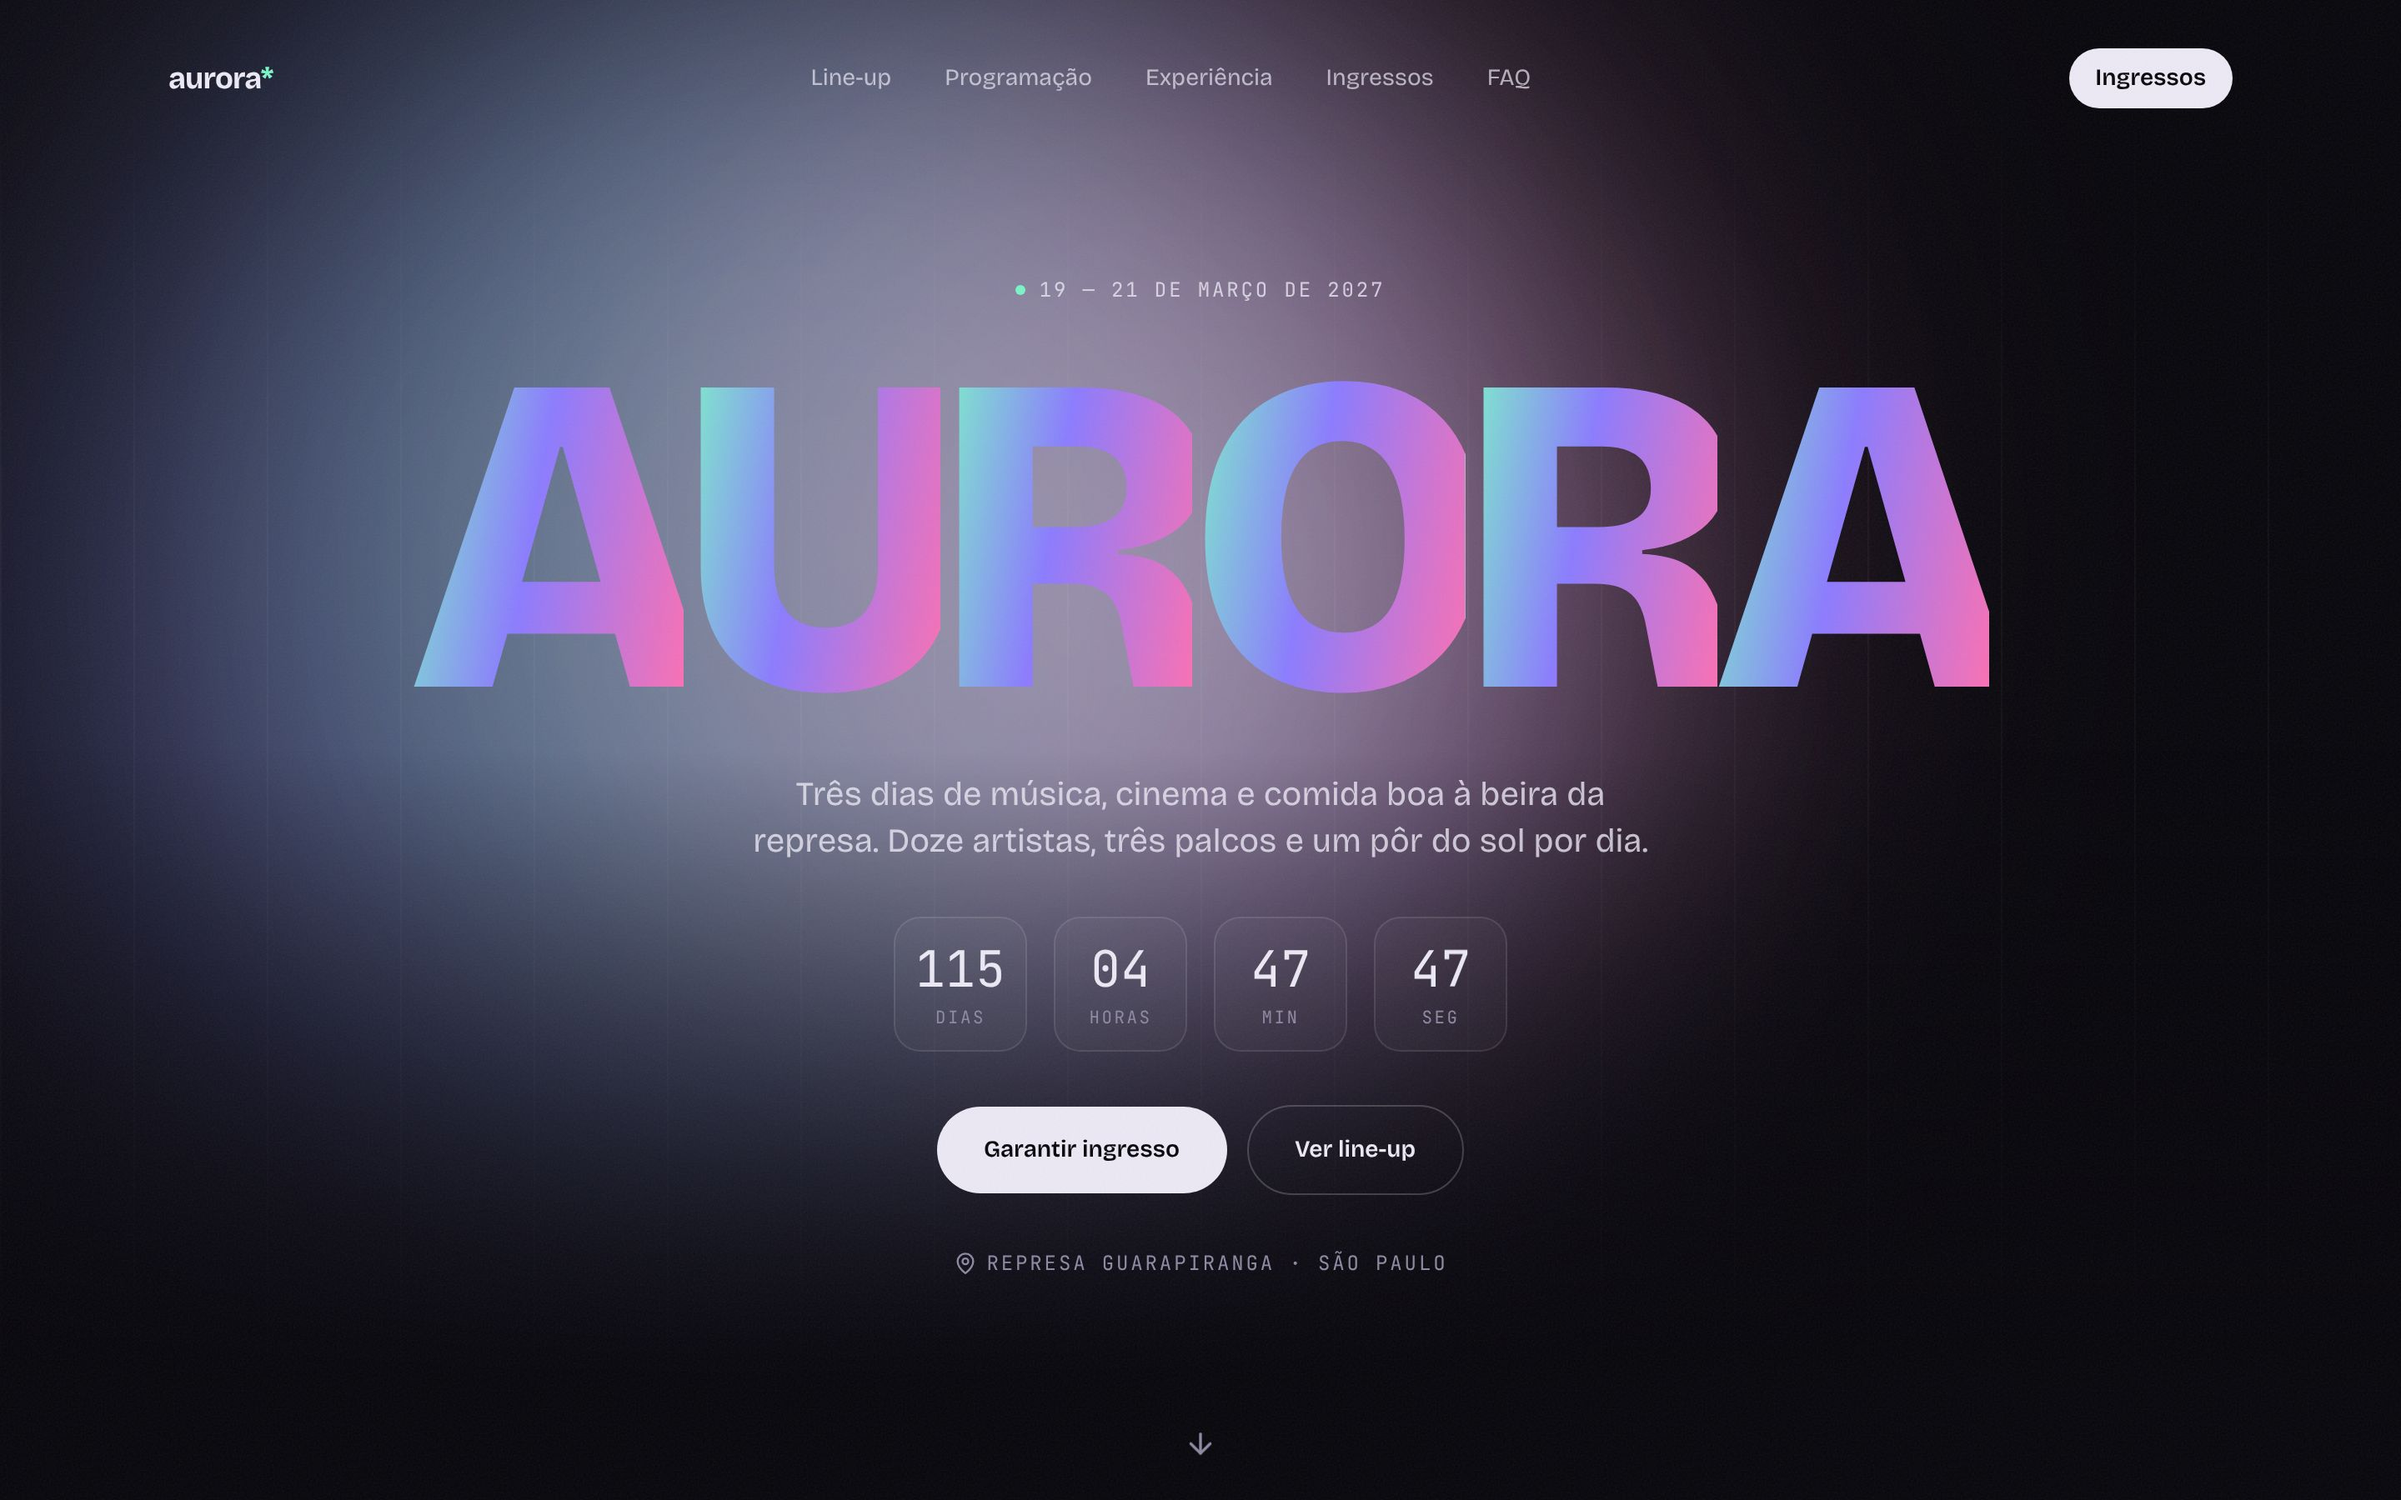
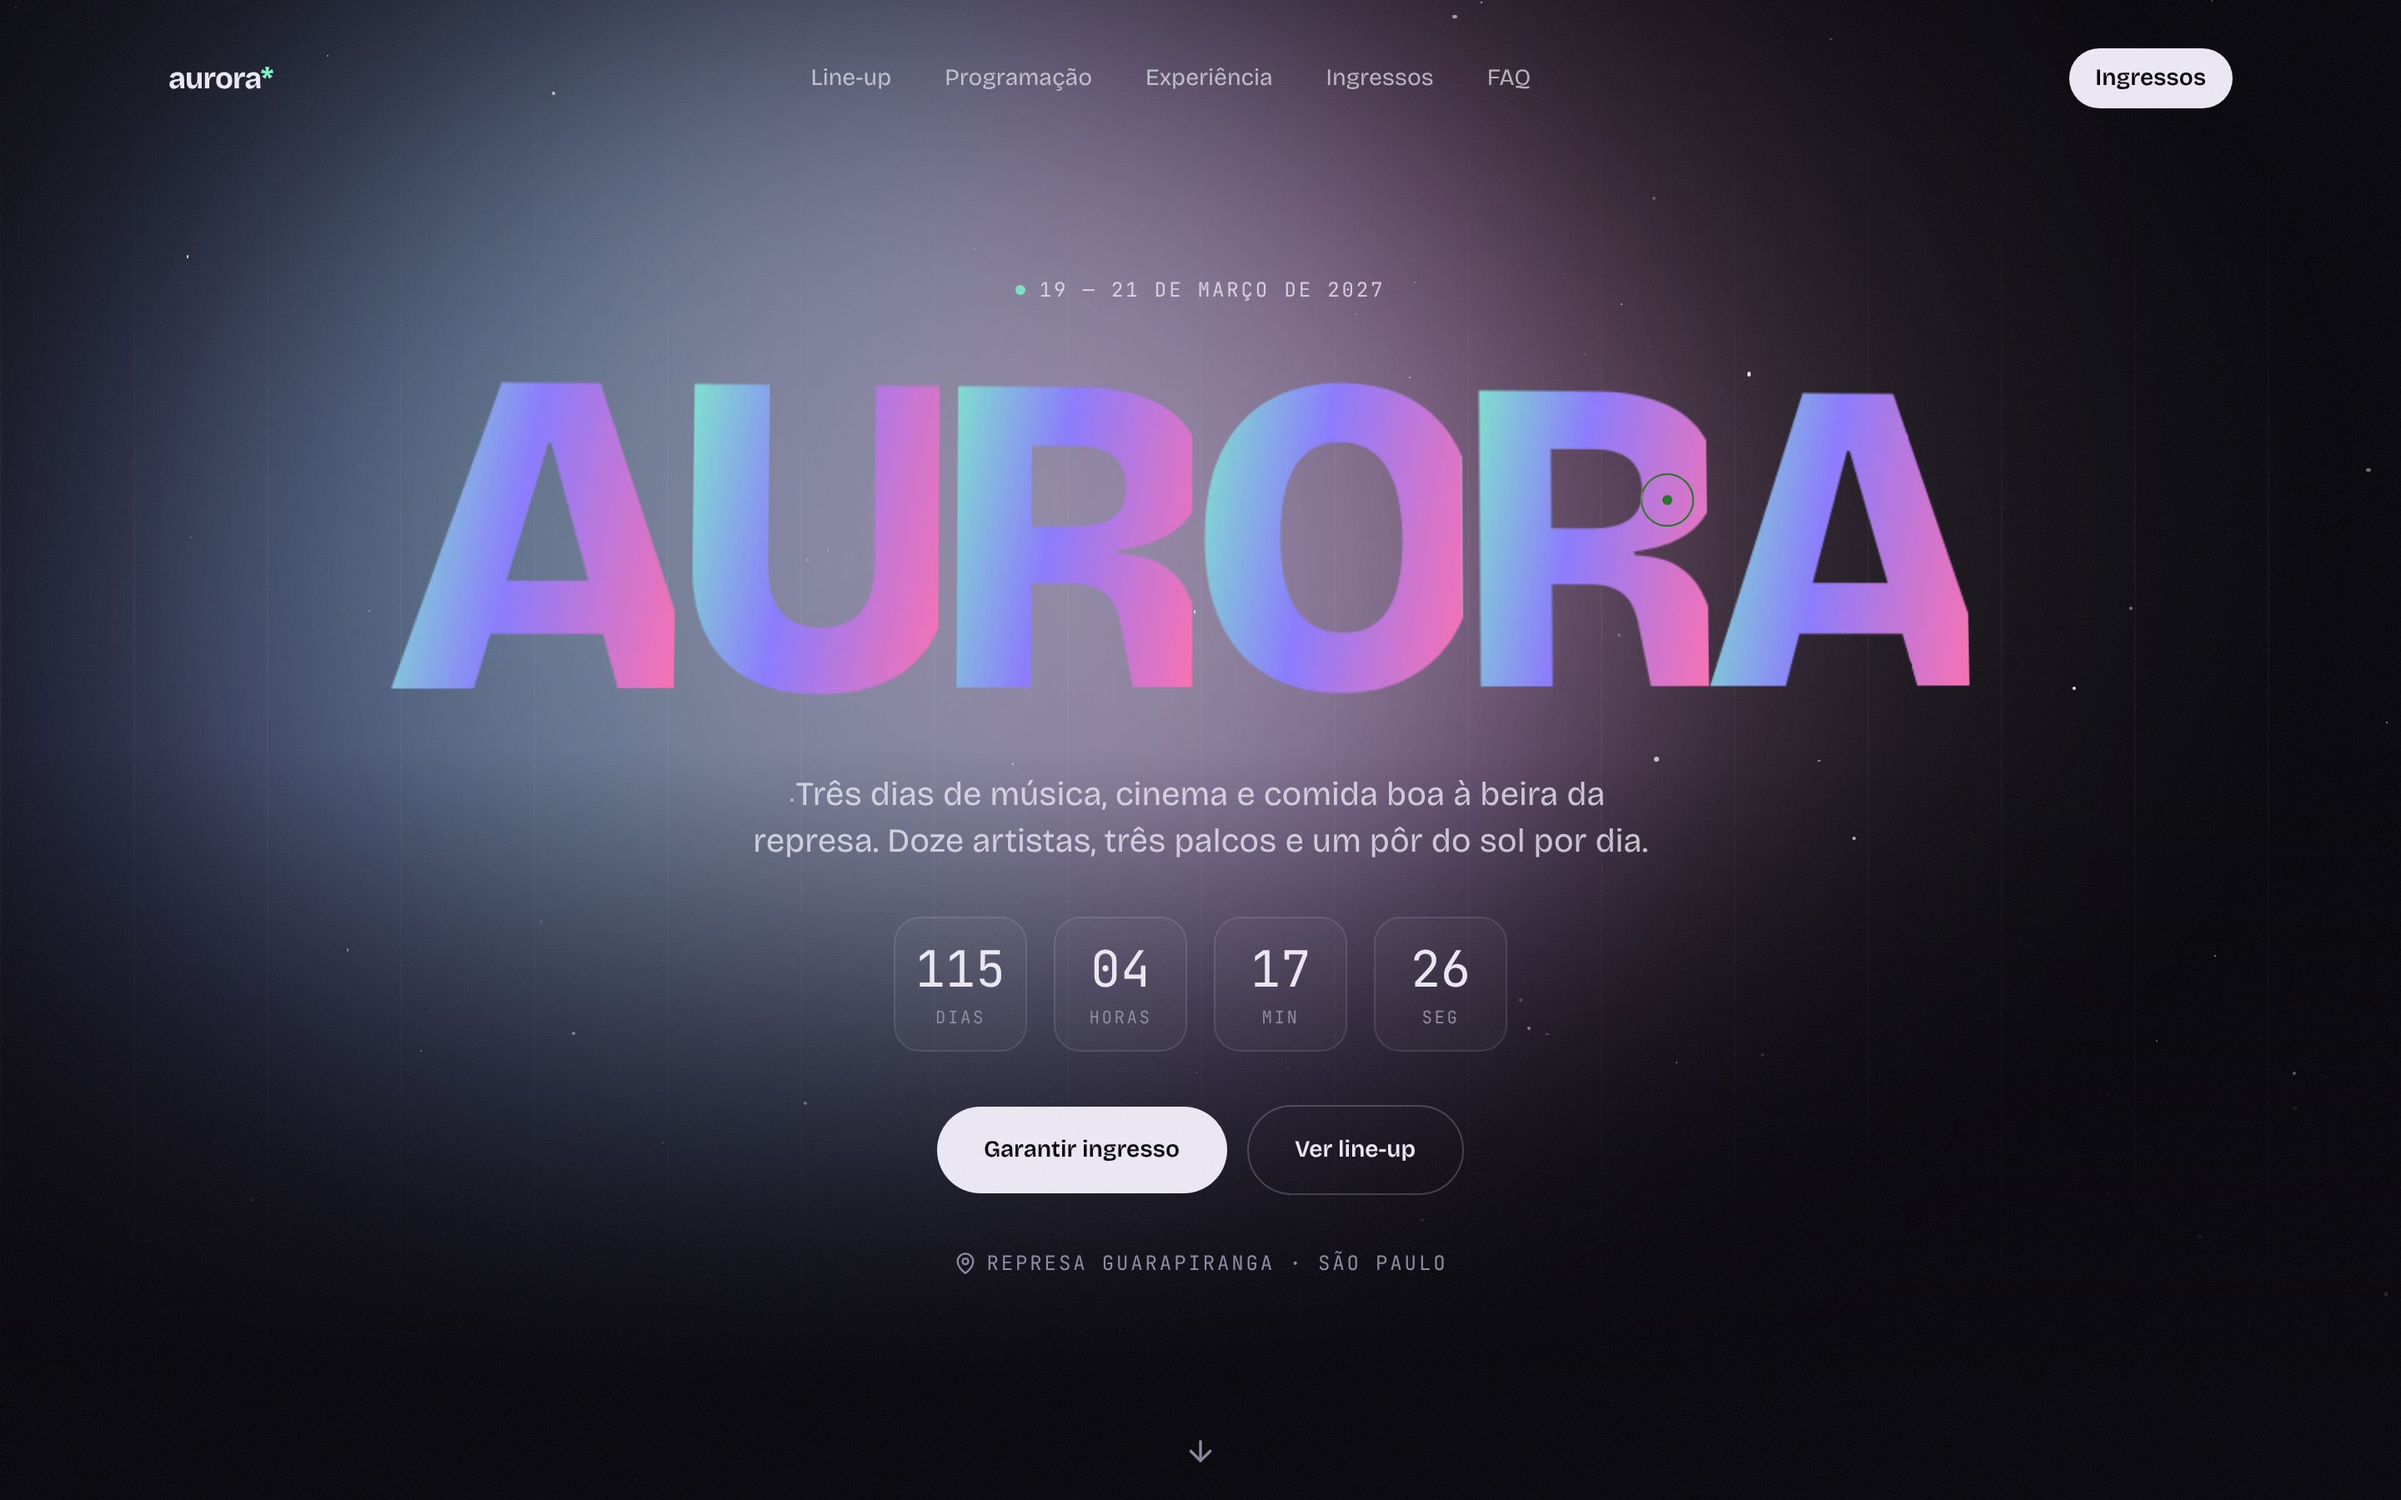
:books: docs: Atualiza README e screenshots

diff --git a/README.md b/README.md
@@ -4,8 +4,10 @@ Landing page de um festival de música **fictício**, feita pra praticar animaç
 
 ![Hero](docs/hero.jpg)
 
-| Line-up com preview no cursor | Ingressos com tilt 3D |
+| Preloader | Zoom parallax da edição passada |
 | :---: | :---: |
+| ![Preloader](docs/preloader.jpg) | ![Zoom parallax](docs/zoom.jpg) |
+| **Line-up com preview no cursor** | **Ingressos com tilt 3D** |
 | ![Line-up](docs/lineup.jpg) | ![Ingressos](docs/ingressos.jpg) |
 
 ## Stack
@@ -13,26 +15,37 @@ Landing page de um festival de música **fictício**, feita pra praticar animaç
 - React 19 + TypeScript + Vite
 - Tailwind CSS 4 (tokens no `@theme` do `index.css`)
 - [Motion](https://motion.dev) pras animações
+- [Lenis](https://lenis.darkroom.engineering) pro scroll suave
 - lucide-react pros ícones
 
 ## Animações
 
 | Seção | O que acontece | Onde |
 | :--- | :--- | :--- |
-| Hero | blobs de cor se movendo com blur + spotlight que segue o mouse | `AuroraBackground.tsx` |
-| Hero | letras de "AURORA" sobem uma a uma; ao rolar, o bloco diminui e desfoca | `Hero.tsx` |
+| Entrada | contador de 0 a 100 e cortina abrindo pra cima | `Preloader.tsx` |
+| Página toda | scroll suave (Lenis) e cursor customizado com anel que cresce em links | `useSmoothScroll.ts`, `Cursor.tsx` |
+| Hero | blobs de cor, estrelas piscando e spotlight que segue o mouse | `AuroraBackground.tsx` |
+| Hero | letras de "AURORA" giram em 3D na entrada e o título inclina na direção do mouse; ao rolar, o bloco diminui e desfoca | `Hero.tsx` |
+| Títulos | sobem palavra por palavra quando entram na tela | `RevealText.tsx` |
 | Contagem regressiva | cada dígito troca com `AnimatePresence` (`mode="popLayout"`) | `Countdown.tsx` |
 | Botões | efeito magnético com `useSpring` | `MagneticButton.tsx` |
 | Faixa de artistas | acelera com a velocidade do scroll e inverte o sentido ao rolar pra cima (`useVelocity`) | `VelocityMarquee.tsx` |
 | Line-up | card com a "capa" do artista segue o cursor (só em dispositivos com hover) | `Lineup.tsx` |
 | Programação | a pílula da aba ativa desliza com `layoutId` | `Schedule.tsx` |
+| Números | contadores animados quando aparecem | `Stats.tsx` |
+| Edição 2026 | zoom parallax: sete "pôsteres" que escalam em velocidades diferentes até o central ocupar a tela | `ZoomParallax.tsx` |
 | Experiência | seção sticky: scroll vertical vira movimento horizontal | `Experience.tsx` |
 | Ingressos | tilt 3D com reflexo de luz | `TiltCard.tsx` |
 | Navbar | some ao rolar pra baixo e volta ao rolar pra cima | `Navbar.tsx` |
 
 Quem usa `prefers-reduced-motion` recebe a versão sem os movimentos contínuos (`useReducedMotion`).
 
-Uma coisa que precisei corrigir: o scroll horizontal da seção de experiência usava um `-62%` fixo, o que cortava o último card no celular. Agora a distância é calculada a partir do `scrollWidth` da trilha, com `ResizeObserver`.
+As "fotos" são ilustrações de palco feitas só com gradientes (`conic-gradient` pros feixes de luz) e uma silhueta de público em SVG gerada com seed fixa (`StageArt.tsx`, `Crowd.tsx`), então o projeto não depende de nenhuma imagem externa.
+
+Bugs que valeram a pena registrar:
+
+- O `RevealText` usava `whileInView` em cada palavra. Como cada palavra começa 100% escondida pelo `overflow: hidden`, palavras curtas nunca "entravam na tela" (o "é" de "Não é só show" sumia). A detecção passou para o título inteiro.
+- O scroll horizontal da seção de experiência usava um `-62%` fixo, o que cortava o último card no celular. Agora a distância é calculada a partir do `scrollWidth` da trilha, com `ResizeObserver`.
 
 ## Rodando
 
